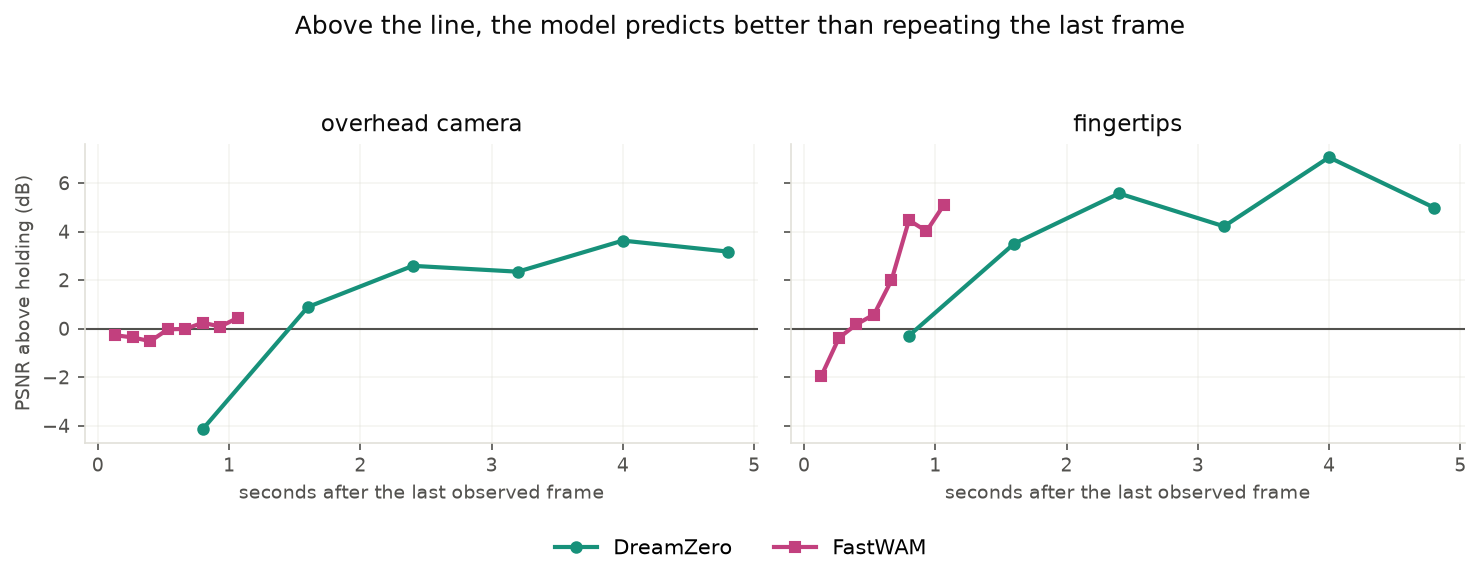
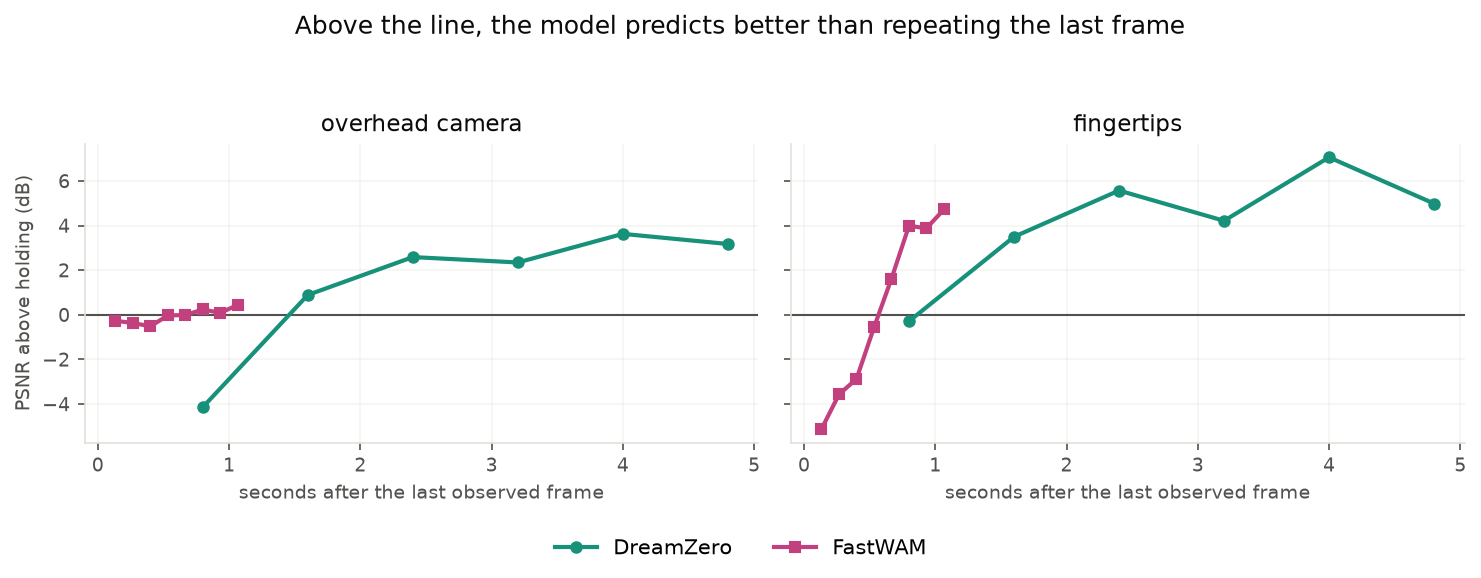
Per-sensor world-model results, and the rim measure on held-out data
Both world models rescored per sensor with reconstruction: DreamZero's small
autoencoder caps its overhead prediction, while on the fingertips, and for
FastWAM everywhere, most of the error is prediction rather than compression.
DreamZero's prediction numbers reproduce the earlier scoring to the digit.

The rim figure is now drawn by report_figures.py from the held-out Grad-CAM
runs; the draft's figure came from scratch files that no longer exist. The
conclusion holds on held-out data. Sampling is corrected to one frame in 25,
which is what produced the 1127 and 111 frame counts.

Claude-Session: https://claude.ai/code/session_0196vDjqm3Zo6sQgqQLb5qwQ

diff --git a/tool/report_figures.py b/tool/report_figures.py
@@ -757,8 +757,8 @@ def main() -> int:
         "--prediction",
         nargs="*",
         default=[
-            "dreamzero=outputs/analysis/2026-09-25/dreamzero-prediction/prediction.json",
-            "fastwam=outputs/analysis/2026-09-25/fastwam-prediction/prediction.json",
+            "dreamzero=outputs/analysis/2026-09-27/dreamzero-prediction/prediction.json",
+            "fastwam=outputs/analysis/2026-09-27/fastwam-prediction/prediction.json",
         ],
         help="model=path pairs of world-model prediction.json results",
     )
@@ -874,6 +874,7 @@ def main() -> int:
         else:
             print(f"  per-sensor prediction: no {key} result at {path}")
     write_wm_table(revised, out / "wm_table.tex")
+    draw_rim_attention([Path(a) for a in args.attribution], out / "rim_attention.png")
     if args.dataset:
         dataset = Path(args.dataset).expanduser()
         draw_trajectory_strip(dataset, args.episode, out / "trajectory_strip.png")
@@ -1454,6 +1455,85 @@ def write_wm_table(
     lines += [r"\bottomrule", r"\end{tabular}", ""]
     out.write_text("\n".join(lines))
     print(f"  world-model sensor table: {len(rows)} rows -> {out}")
+    return out
+
+
+#: The rim figure's arms: family, label, then (arm key, crop label) per bar.
+RIM_ARMS = (
+    (
+        "act",
+        "ACT",
+        (("act", "no crop"), ("act_crop", "rows"), ("act_crop_edges", "four edges")),
+    ),
+    (
+        "diffusion",
+        "Diffusion",
+        (
+            ("diffusion", "no crop"),
+            ("diffusion_crop", "rows"),
+            ("diffusion_crop_edges", "four edges"),
+        ),
+    ),
+)
+RIM_BANDS = (0.10, 0.15, 0.20)
+
+
+def draw_rim_attention(directories: "list[Path]", out: Path) -> "Path | None":
+    """Grad-CAM weight in an edge band of the tactile maps, against a flat map.
+
+    Read from the held-out Grad-CAM runs (``heldout-gradcam-<arm>``). The band is
+    a fraction of the image, so maps of different resolution are comparable;
+    ``tool/rim_attention.py`` is the measure and says why. A value of one is
+    what a map with no preference for position would give.
+    """
+    from tool.rim_attention import pooled
+
+    def find(arm: str) -> "Path | None":
+        hits = [d / f"heldout-gradcam-{arm}" / "attribution.json" for d in directories]
+        hits = [h for h in hits if h.is_file()]
+        return hits[-1] if hits else None
+
+    figure, axes = plt.subplots(1, 2, figsize=(10, 3.6), sharey=True)
+    styles = ({"alpha": 1.0}, {"alpha": 0.55}, {"alpha": 0.55, "hatch": "///"})
+    drawn = []
+    for axis, (family, title, bars) in zip(axes, RIM_ARMS):
+        xs = np.arange(len(RIM_BANDS))
+        width = 0.26
+        for offset, ((arm, label), style) in enumerate(zip(bars, styles)):
+            path = find(arm)
+            if path is None:
+                continue
+            values = []
+            for band in RIM_BANDS:
+                observed, flat, _n = pooled(path, band)
+                values.append(observed / flat)
+            position = xs + (offset - 1) * width
+            axis.bar(
+                position,
+                values,
+                width * 0.92,
+                color=FAMILY[family],
+                edgecolor="white",
+                label=label,
+                zorder=3,
+                **style,
+            )
+            for x, v in zip(position, values):
+                axis.text(x, v + 0.02, f"{v:.2f}", ha="center", fontsize=7, color=INK)
+            drawn.append(arm)
+        axis.axhline(1.0, color=MUTED, lw=1.2, ls="--", zorder=2)
+        axis.set_xticks(xs)
+        axis.set_xticklabels([f"{int(b * 100)}%" for b in RIM_BANDS])
+        axis.set_xlabel("edge band, as a fraction of the image", fontsize=9)
+        axis.set_title(title, color=INK, fontsize=10, loc="left")
+        axis.legend(frameon=False, fontsize=8, loc="lower right")
+        tidy(axis)
+    axes[0].set_ylabel("edge weight / flat map")
+    figure.tight_layout()
+    figure.savefig(out, dpi=150, bbox_inches="tight")
+    plt.close(figure)
+    missing = [a for _f, _t, bars in RIM_ARMS for a, _l in bars if a not in drawn]
+    print(f"  rim attention: {drawn}" + (f"  MISSING {missing}" if missing else ""))
     return out
 
 

diff --git a/documents/paper/training_analysis/sections/03_experiments.tex b/documents/paper/training_analysis/sections/03_experiments.tex
@@ -121,7 +121,8 @@ the stretching, not the loss of the rim, caused that small penalty.
   \centering
   \includegraphics[width=0.72\textwidth]{rim_attention.png}
   \caption{How much Grad-CAM weight falls in a band around the edge of the
-  tactile images, relative to a completely flat map (dashed line at 1). Below
+  tactile images, relative to a completely flat map (dashed line at 1), over
+  60 frames of test demonstration 58 and all four fingertips. Below
   the line, a model looks at the edge \emph{less} than a model that ignored
   position would. Three band widths are shown.}
   \label{fig:rim}
@@ -130,8 +131,8 @@ the stretching, not the loss of the rim, caused that small penalty.
 \textbf{The policies do not over-weight the edges of the tactile images.}
 Figure~\ref{fig:rim} measures this directly. \new{A value of 1 means the edge
 band gets exactly its share of the weight by area; above 1, the model favours
-the edge.} Every uncropped model sits at two thirds to four fifths of its share,
-at every band width. So the edge attention we saw in single Grad-CAM pictures
+the edge.} \new{On a test demonstration,} every uncropped model sits between two thirds
+and nine tenths of its share, at every band width. So the edge attention we saw in single Grad-CAM pictures
 does not hold on average. Cropping moves the weight slightly towards the new
 edge, partly for a mechanical reason: after cropping and stretching, the pixels
 nearest the edge used to be further in. \pending{rim measure for the
@@ -205,13 +206,27 @@ repeating the last frame it saw.
   PSNR (dB). \emph{Reconstruction}: seen frames through the model's own
   autoencoder. \emph{Prediction} and \emph{repeat last}: future frames,
   averaged over the prediction horizon. \emph{Margin}: prediction minus repeat
-  last, at \SI{0.8}{\second} ahead and at the end of the horizon.}}
+  last, at \SI{0.8}{\second} ahead and at the end of each model's horizon
+  (\SI{4.8}{\second} for DreamZero, \SI{1.1}{\second} for FastWAM). Each model
+  works at its own resolution, so compare margins, not PSNR, between models.}}
   \label{tab:wm}
   \small
   \input{tables/wm_table}
 \end{table}
 
-\pending{reconstruction versus prediction, per sensor.}
+\begin{newtext}
+\textbf{Most of the prediction error comes from predicting, not from
+compressing the images.} DreamZero's small image autoencoder is the exception
+on the overhead camera: it reproduces a seen frame at only 17.3\,dB, and the
+model's predictions reach 15.5\,dB, close to that ceiling. On the fingertips
+its autoencoder reaches 34 to 37\,dB, but its predictions only 25 to 30\,dB.
+FastWAM's pretrained autoencoder is much sharper, 34\,dB on the overhead camera
+and about 46\,dB on the fingertips, and its predictions sit 13 to 17\,dB below
+that. So a better autoencoder would remove little of either model's error,
+except DreamZero's on the overhead camera. The two models work at different
+image resolutions, so their PSNR values should not be compared directly; their
+margins over repeating the last frame can be.
+\end{newtext}
 
 \begin{figure}[t]
   \centering
@@ -248,6 +263,7 @@ The garment fills most of the frame and hardly moves within a second, so
 repeating the last frame is already right about most pixels. \textbf{A score
 averaged over the whole frame can rate a correct prediction of a small moving
 part as no better than doing nothing.} On the fingertips, where contact changes
-many pixels, FastWAM gains up to 5\,dB over repeating the last frame. At the
+many pixels, FastWAM starts below repeating the last frame and ends 3 to 6\,dB
+above it on every sensor. At the
 one moment both models predict, \SI{0.8}{\second} ahead, FastWAM is ahead on
 both panels of Figure~\ref{fig:predmargin}.

diff --git a/documents/paper/training_analysis/sections/A_appendix.tex b/documents/paper/training_analysis/sections/A_appendix.tex
@@ -15,7 +15,7 @@ column is then averaged, and divided by the mean of the middle fifth of the
 image.}
 
 \textbf{Action error (Tables~\ref{tab:actions}, \ref{tab:crop},
-\ref{tab:sensors}, Figure~\ref{fig:horizon}).} Every twentieth frame is given to
+\ref{tab:sensors}, Figure~\ref{fig:horizon}).} Every 25th frame is given to
 the model with the past frames it expects. The planned chunk is compared step by
 step with the recorded commands; squaring and averaging at each step over all
 sampled frames gives the curve, and averaging the curve over the chosen steps
@@ -30,7 +30,8 @@ are held out. Everything else, including the random seed, is unchanged.
 \textbf{Grad-CAM rim measure (Figure~\ref{fig:rim}).} A band around the edge of
 each tactile Grad-CAM map is defined as a fraction of the image, so that maps of
 different resolution are treated alike. The weight inside the band is divided by
-the weight a flat map of the same size would put there.
+the weight a flat map of the same size would put there. \new{The maps come from test demonstration 58, every fifth frame; the
+reviewed draft used training demonstrations.}
 
 \textbf{Input contribution (Figures~\ref{fig:streams} and~\ref{fig:framewise}).}
 As in Section~\ref{sec:measures}. Figure~\ref{fig:framewise} uses every fifth

diff --git a/documents/paper/training_analysis/tables/wm_table.tex b/documents/paper/training_analysis/tables/wm_table.tex
@@ -1,1 +1,18 @@
-\begin{tabular}{l}\pending{world models not yet scored per sensor}\end{tabular}
+\begin{tabular}{llrrrrr}
+\toprule
+& & & & & \multicolumn{2}{c}{margin} \\
+\cmidrule(lr){6-7}
+sensor & model & reconstruction & prediction & repeat last & at \SI{0.8}{\second} & at end \\
+\midrule
+overhead & DreamZero & 17.3 & 15.5 & 14.1 & -4.1 & +3.2 \\
+left arm left gripper & DreamZero & 37.0 & 30.1 & 25.9 & -1.3 & +5.6 \\
+left arm right gripper & DreamZero & 34.9 & 28.0 & 22.9 & -1.4 & +6.7 \\
+right arm left gripper & DreamZero & 33.9 & 24.8 & 20.7 & +0.0 & +5.0 \\
+right arm right gripper & DreamZero & 37.0 & 26.8 & 23.6 & +1.5 & +2.6 \\
+overhead & FastWAM & 33.8 & 18.5 & 18.6 & +0.2 & +0.4 \\
+left arm left gripper & FastWAM & 46.7 & 33.0 & 32.9 & +5.2 & +5.2 \\
+left arm right gripper & FastWAM & 46.1 & 31.5 & 33.4 & +2.7 & +4.3 \\
+right arm left gripper & FastWAM & 45.9 & 28.5 & 26.5 & +5.0 & +6.3 \\
+right arm right gripper & FastWAM & 47.2 & 30.0 & 29.0 & +3.0 & +3.1 \\
+\bottomrule
+\end{tabular}

diff --git a/documents/paper/training_analysis/sections/02_methods.tex b/documents/paper/training_analysis/sections/02_methods.tex
@@ -115,7 +115,7 @@ Section~\ref{sec:compare} compares the two.}
 \textbf{Action error.} We give a model one observation and compare the chunk it
 plans with the commands the demonstrator actually sent next. We take the
 root-mean-square error (RMSE) over all twelve joints, in degrees, separately for
-each step of the chunk. We sample one frame in twenty, which gives 1127 scored
+each step of the chunk. We sample one frame in 25, which gives 1127 scored
 frames from the training demonstrations and 111 from the test demonstrations.
 Models plan different distances ahead, and error grows with distance, so we
 compare models over the first ten steps (\SI{0.33}{\second}), which every model
